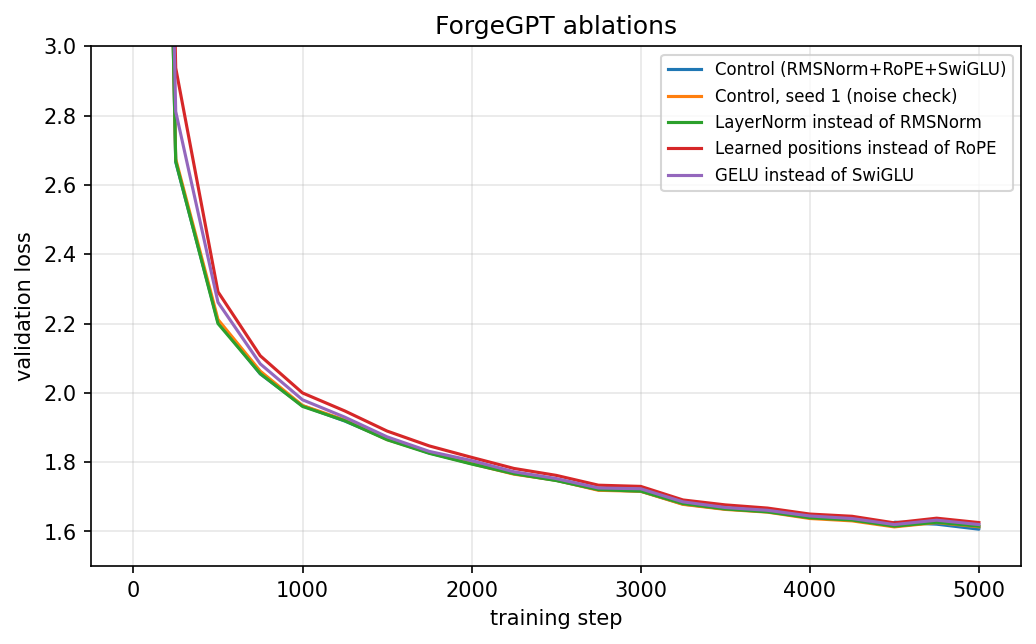
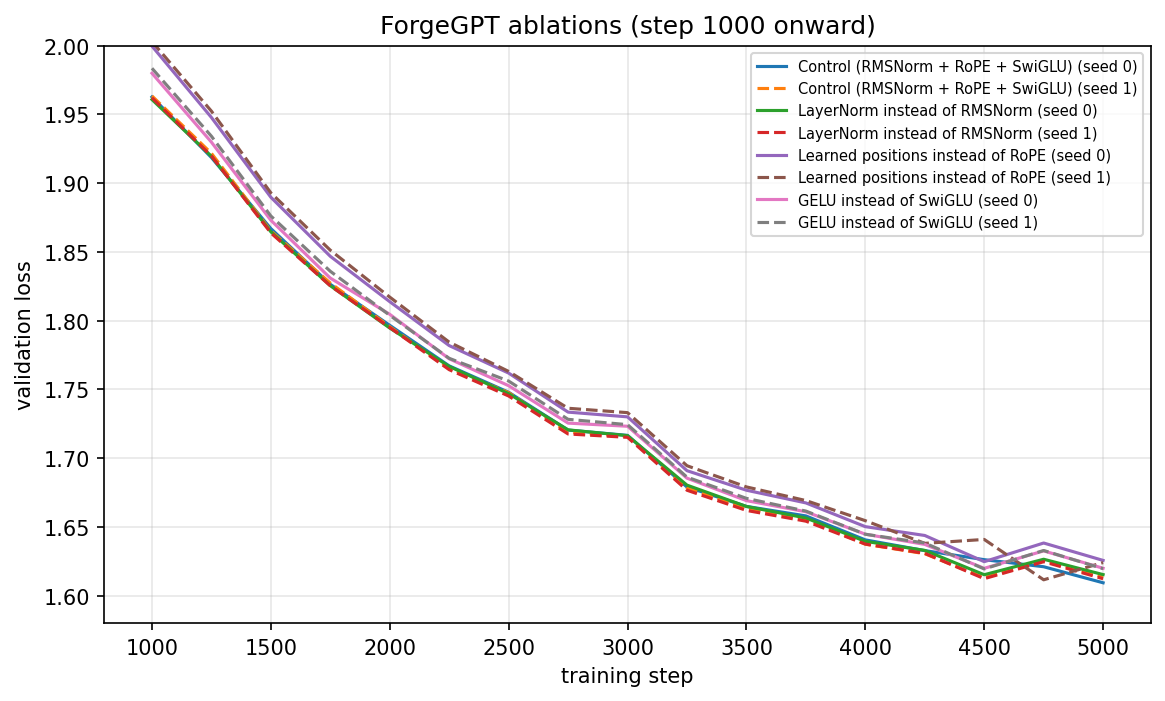
Add second-seed ablation results

Changed region(s): [[0.0, 0.0, 0.9884, 0.9938]]

diff --git a/results/ablation_table.md b/results/ablation_table.md
@@ -1,7 +1,10 @@
-| Variant | Final val loss | Avg of last 3 evals | Perplexity | vs control |
-|---|---|---|---|---|
-| Control (RMSNorm+RoPE+SwiGLU) | 1.609 | 1.608 | 4.99 | +0.000 |
-| Control, seed 1 (noise check) | 1.613 | 1.617 | 5.04 | +0.009 |
-| LayerNorm instead of RMSNorm | 1.615 | 1.619 | 5.05 | +0.011 |
-| Learned positions instead of RoPE | 1.626 | 1.629 | 5.10 | +0.021 |
-| GELU instead of SwiGLU | 1.620 | 1.624 | 5.07 | +0.016 |
+| Variant | Seed | Final val loss | Avg of last 3 evals | Perplexity | vs matching control |
+|---|---|---|---|---|---|
+| Control (RMSNorm + RoPE + SwiGLU) | 0 | 1.609 | 1.619 | 5.05 | n/a |
+| Control (RMSNorm + RoPE + SwiGLU) | 1 | 1.613 | 1.617 | 5.04 | n/a |
+| LayerNorm instead of RMSNorm | 0 | 1.615 | 1.619 | 5.05 | +0.000 |
+| LayerNorm instead of RMSNorm | 1 | 1.612 | 1.616 | 5.03 | -0.001 |
+| Learned positions instead of RoPE | 0 | 1.626 | 1.629 | 5.10 | +0.011 |
+| Learned positions instead of RoPE | 1 | 1.624 | 1.625 | 5.08 | +0.008 |
+| GELU instead of SwiGLU | 0 | 1.620 | 1.624 | 5.07 | +0.005 |
+| GELU instead of SwiGLU | 1 | 1.620 | 1.624 | 5.07 | +0.007 |
